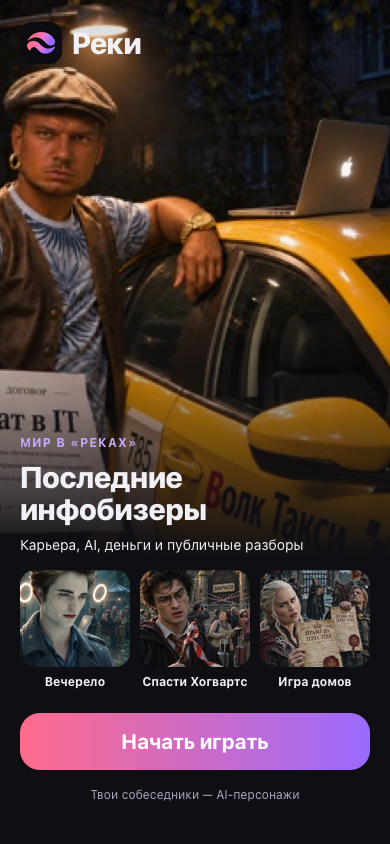
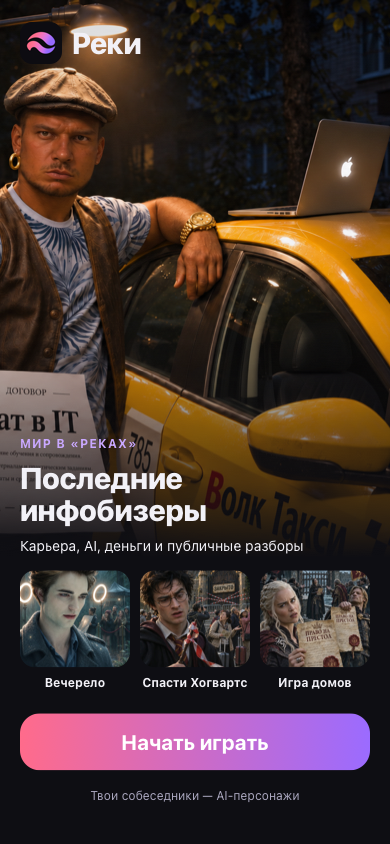
fix(frontend): use original resolution for landing heroes #205

diff --git a/frontend/src/app/landing/Landing.tsx b/frontend/src/app/landing/Landing.tsx
@@ -44,7 +44,7 @@ export function Landing({ onContinue, preview = false }: { onContinue: (worldId:
     onContinue(chosen.id)
   }
   return <main className={`entry-landing entry-landing--${variant}${hero ? ' entry-landing--single' : ''}`} aria-labelledby="landing-title">
-    {hero && <img className="landing-hero-art" src={`/landing/${hero.id}-${hero.id === 'hogwarts' ? 960 : 480}.jpg`} srcSet={hero.id === 'hogwarts' ? '/landing/hogwarts-480.jpg 480w, /landing/hogwarts-960.jpg 960w' : undefined} sizes="(max-width: 430px) 100vw, 430px" alt="" fetchPriority="high" />}
+    {hero && <img className="landing-hero-art" src={hero.id === 'hogwarts' ? '/landing/hogwarts-960.jpg' : `/landing/${hero.id}-full.png`} srcSet={hero.id === 'hogwarts' ? '/landing/hogwarts-480.jpg 480w, /landing/hogwarts-960.jpg 960w' : hero.id === 'infobiz' ? '/landing/infobiz-full.png 1536w' : `/landing/${hero.id}-480.jpg 480w, /landing/${hero.id}-full.png 1024w`} sizes="(max-width: 430px) 100vw, 430px" alt="" fetchPriority="high" />}
     <header className="landing-brand"><img src="/android-chrome-192x192.png?v=wave-2" width="42" height="42" alt="" /><span>Реки</span></header>
     {variant === 'worlds' ? <>
       <section className="landing-copy"><h1 ref={heading} id="landing-title" tabIndex={-1}>Твой блог.<br />Твоя история.</h1><p>Выбери героя, пиши посты и смотри, как отвечает его мир.</p></section>
